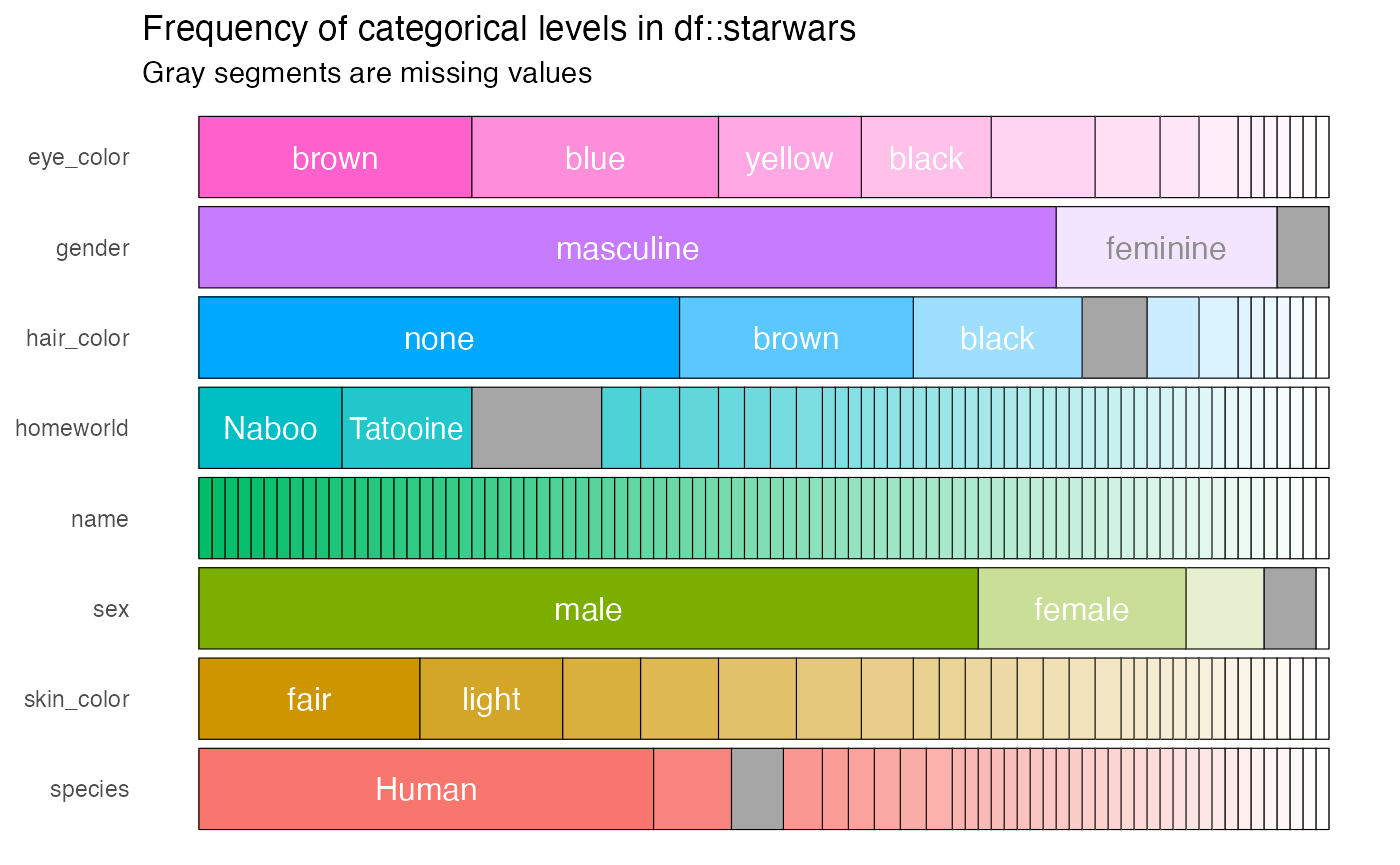
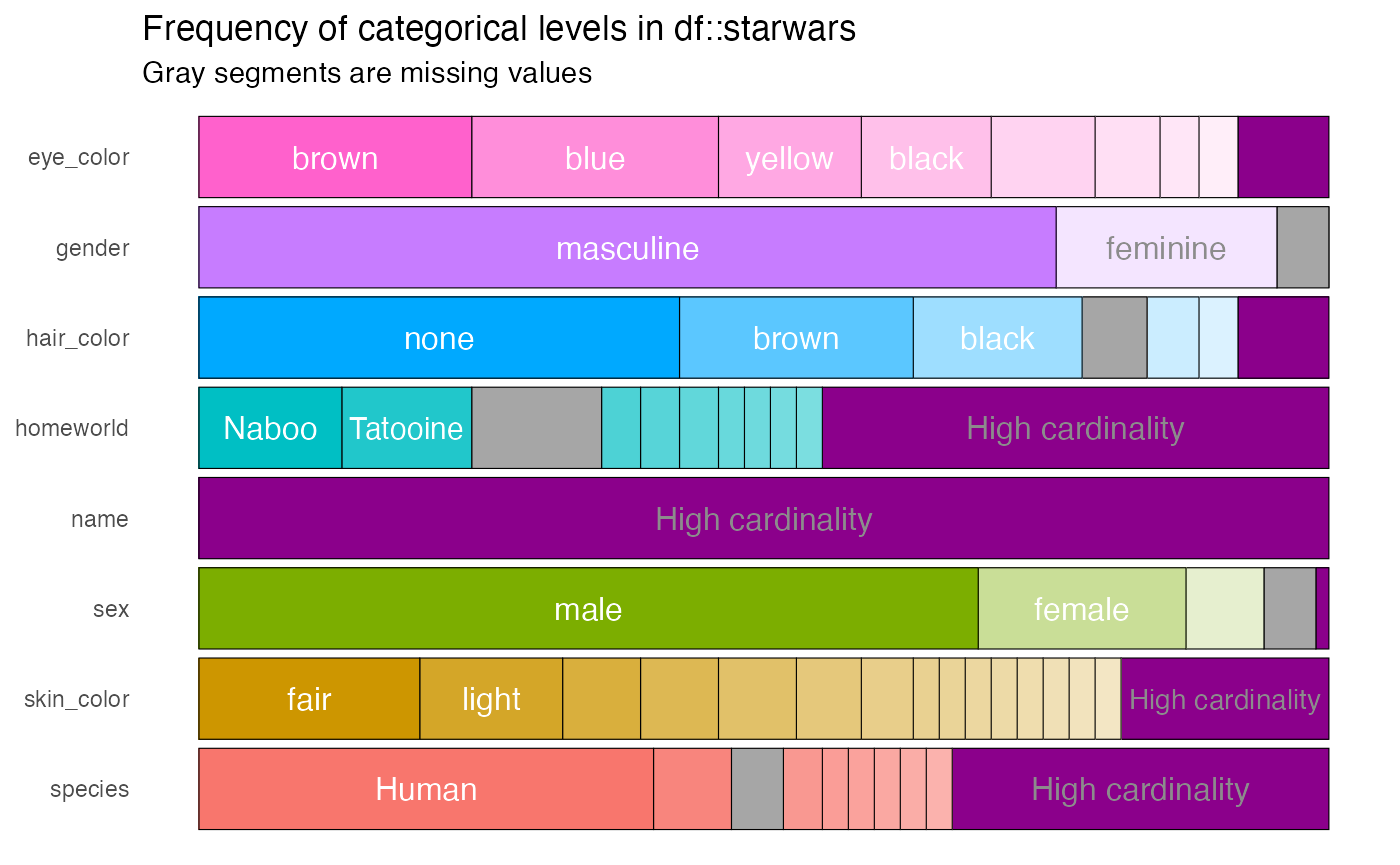
update inspect cat pkgdown page

Changed region(s): [[0.1229, 0.3434, 0.9521, 0.9676], [0.86, 0.1249, 0.9521, 0.2497]]

diff --git a/docs/articles/pkgdown/inspect_cat_examples.html b/docs/articles/pkgdown/inspect_cat_examples.html
@@ -121,20 +121,28 @@
 <h2 class="hasAnchor">
 <a href="#illustrative-data-starwars" class="anchor"></a>Illustrative data: <code>starwars</code>
 </h2>
-<p>The examples below make use of the <code>starwars</code> and <code>storms</code> data from the <code>dplyr</code> package</p>
+<p>The examples below make use of the <code>starwars</code> from the <code>dplyr</code> package.</p>
 <div class="sourceCode" id="cb1"><pre class="downlit sourceCode r">
-<code class="sourceCode R"><span class="co"># some example data</span>
-<span class="fu"><a href="https://rdrr.io/r/utils/data.html">data</a></span><span class="op">(</span><span class="va">starwars</span>, package <span class="op">=</span> <span class="st">"dplyr"</span><span class="op">)</span>
-<span class="fu"><a href="https://rdrr.io/r/utils/data.html">data</a></span><span class="op">(</span><span class="va">storms</span>, package <span class="op">=</span> <span class="st">"dplyr"</span><span class="op">)</span></code></pre></div>
-<p>For illustrating comparisons of dataframes, use the <code>starwars</code> data and produce two new dataframes <code>star_1</code> and <code>star_2</code> that randomly sample the rows of the original and drop a couple of columns.</p>
-<div class="sourceCode" id="cb2"><pre class="downlit sourceCode r">
 <code class="sourceCode R"><span class="kw"><a href="https://rdrr.io/r/base/library.html">library</a></span><span class="op">(</span><span class="va"><a href="https://dplyr.tidyverse.org">dplyr</a></span><span class="op">)</span>
-<span class="va">star_1</span> <span class="op">&lt;-</span> <span class="va">starwars</span> <span class="op">%&gt;%</span> <span class="fu"><a href="https://dplyr.tidyverse.org/reference/sample_n.html">sample_n</a></span><span class="op">(</span><span class="fl">50</span><span class="op">)</span>
-<span class="va">star_2</span> <span class="op">&lt;-</span> <span class="va">starwars</span> <span class="op">%&gt;%</span> <span class="fu"><a href="https://dplyr.tidyverse.org/reference/sample_n.html">sample_n</a></span><span class="op">(</span><span class="fl">50</span><span class="op">)</span> <span class="op">%&gt;%</span> <span class="fu"><a href="https://dplyr.tidyverse.org/reference/select.html">select</a></span><span class="op">(</span><span class="op">-</span><span class="fl">1</span>, <span class="op">-</span><span class="fl">2</span><span class="op">)</span></code></pre></div>
+<span class="fu"><a href="https://rdrr.io/r/utils/data.html">data</a></span><span class="op">(</span><span class="va">starwars</span>, package <span class="op">=</span> <span class="st">"dplyr"</span><span class="op">)</span>
+
+<span class="co"># print the first few rows</span>
+<span class="fu"><a href="https://rdrr.io/r/utils/head.html">head</a></span><span class="op">(</span><span class="va">starwars</span><span class="op">)</span></code></pre></div>
+<pre><code>## # A tibble: 6 x 14
+##   name  height  mass hair_color skin_color eye_color birth_year sex   gender
+##   &lt;chr&gt;  &lt;int&gt; &lt;dbl&gt; &lt;chr&gt;      &lt;chr&gt;      &lt;chr&gt;          &lt;dbl&gt; &lt;chr&gt; &lt;chr&gt; 
+## 1 Luke…    172    77 blond      fair       blue            19   male  mascu…
+## 2 C-3PO    167    75 &lt;NA&gt;       gold       yellow         112   none  mascu…
+## 3 R2-D2     96    32 &lt;NA&gt;       white, bl… red             33   none  mascu…
+## 4 Dart…    202   136 none       white      yellow          41.9 male  mascu…
+## 5 Leia…    150    49 brown      light      brown           19   fema… femin…
+## 6 Owen…    178   120 brown, gr… light      blue            52   male  mascu…
+## # … with 5 more variables: homeworld &lt;chr&gt;, species &lt;chr&gt;, films &lt;list&gt;,
+## #   vehicles &lt;list&gt;, starships &lt;list&gt;</code></pre>
 </div>
-<div id="inspect_cat-for-a-single-dataframe" class="section level2">
+<div id="inspect_cat-for-a-single-data-frame" class="section level2">
 <h2 class="hasAnchor">
-<a href="#inspect_cat-for-a-single-dataframe" class="anchor"></a><code>inspect_cat()</code> for a single dataframe</h2>
+<a href="#inspect_cat-for-a-single-data-frame" class="anchor"></a><code>inspect_cat()</code> for a single data frame</h2>
 <p><code><a href="../../reference/inspect_cat.html">inspect_cat()</a></code> returns a tibble summarising categorical features in a data frame, combining the functionality of the <code><a href="../../reference/inspect_imb.html">inspect_imb()</a></code> and <code><a href="https://rdrr.io/r/base/table.html">table()</a></code> functions. The tibble generated contains the columns</p>
 <ul>
 <li>
@@ -152,7 +160,10 @@
 </ul>
 <div class="sourceCode" id="cb3"><pre class="downlit sourceCode r">
 <code class="sourceCode R"><span class="kw"><a href="https://rdrr.io/r/base/library.html">library</a></span><span class="op">(</span><span class="va"><a href="https://alastairrushworth.github.io/inspectdf/">inspectdf</a></span><span class="op">)</span>
-<span class="fu"><a href="../../reference/inspect_cat.html">inspect_cat</a></span><span class="op">(</span><span class="va">starwars</span><span class="op">)</span></code></pre></div>
+
+<span class="co"># explore the categorical features </span>
+<span class="va">x</span> <span class="op">&lt;-</span> <span class="fu"><a href="../../reference/inspect_cat.html">inspect_cat</a></span><span class="op">(</span><span class="va">starwars</span><span class="op">)</span>
+<span class="va">x</span></code></pre></div>
 <pre><code>## # A tibble: 8 x 5
 ##   col_name     cnt common    common_pcnt levels           
 ##   &lt;chr&gt;      &lt;int&gt; &lt;chr&gt;           &lt;dbl&gt; &lt;named list&gt;     
@@ -166,7 +177,8 @@
 ## 8 species       38 Human           40.2  &lt;tibble [38 × 3]&gt;</code></pre>
 <p>For example, the levels for the <code>hair_color</code> column are</p>
 <div class="sourceCode" id="cb5"><pre class="downlit sourceCode r">
-<code class="sourceCode R"><span class="fu"><a href="../../reference/inspect_cat.html">inspect_cat</a></span><span class="op">(</span><span class="va">starwars</span><span class="op">)</span><span class="op">$</span><span class="va">levels</span><span class="op">$</span><span class="va">hair_color</span></code></pre></div>
+<code class="sourceCode R"><span class="co"># show frequency tibble for `hair_color` column:</span>
+<span class="va">x</span><span class="op">$</span><span class="va">levels</span><span class="op">$</span><span class="va">hair_color</span></code></pre></div>
 <pre><code>## # A tibble: 13 x 3
 ##    value           prop   cnt
 ##    &lt;chr&gt;          &lt;dbl&gt; &lt;int&gt;
@@ -183,37 +195,52 @@
 ## 11 brown, grey   0.0115     1
 ## 12 grey          0.0115     1
 ## 13 unknown       0.0115     1</code></pre>
-<p>Note that by default, if <code>NA</code> values are present, they are counted as a distinct categorical level. A barplot is printed showing the relative split when passing the result to <code><a href="../../reference/show_plot.html">show_plot()</a></code>:</p>
+<p>Note that by default, if missing (<code>NA</code>) values are present, they are counted as a distinct categorical level. A barplot showing the composition of each categorical column can be created using the <code><a href="../../reference/show_plot.html">show_plot()</a></code> function. Note how missing values are shown as grey bars:</p>
 <div class="sourceCode" id="cb7"><pre class="downlit sourceCode r">
-<code class="sourceCode R"><span class="fu"><a href="../../reference/inspect_cat.html">inspect_cat</a></span><span class="op">(</span><span class="va">starwars</span><span class="op">)</span> <span class="op">%&gt;%</span> <span class="fu"><a href="../../reference/show_plot.html">show_plot</a></span><span class="op">(</span><span class="op">)</span></code></pre></div>
-<p><img src="inspect_cat_examples_files/figure-html/unnamed-chunk-5-1.png" width="700"></p>
+<code class="sourceCode R"><span class="va">x</span> <span class="op">%&gt;%</span> <span class="fu"><a href="../../reference/show_plot.html">show_plot</a></span><span class="op">(</span><span class="op">)</span></code></pre></div>
+<p><img src="inspect_cat_examples_files/figure-html/unnamed-chunk-4-1.png" width="700"></p>
 <p>The argument <code>high_cardinality</code> in the <code><a href="../../reference/show_plot.html">show_plot()</a></code> function can be used to bundle together categories that occur only a small number of times. For example, to combine categories only occurring once, use:</p>
 <div class="sourceCode" id="cb8"><pre class="downlit sourceCode r">
-<code class="sourceCode R"><span class="fu"><a href="../../reference/inspect_cat.html">inspect_cat</a></span><span class="op">(</span><span class="va">starwars</span><span class="op">)</span> <span class="op">%&gt;%</span> 
+<code class="sourceCode R"><span class="va">x</span> <span class="op">%&gt;%</span> 
   <span class="fu"><a href="../../reference/show_plot.html">show_plot</a></span><span class="op">(</span>high_cardinality <span class="op">=</span> <span class="fl">1</span><span class="op">)</span></code></pre></div>
-<p><img src="inspect_cat_examples_files/figure-html/unnamed-chunk-6-1.png" width="700"></p>
+<p><img src="inspect_cat_examples_files/figure-html/unnamed-chunk-5-1.png" width="700"></p>
 <p>The resulting bundles are shown in purple.</p>
 </div>
-<div id="inspect_cat-for-two-dataframes" class="section level2">
+<div id="inspect_cat-for-two-data-frames" class="section level2">
 <h2 class="hasAnchor">
-<a href="#inspect_cat-for-two-dataframes" class="anchor"></a><code>inspect_cat()</code> for two dataframes</h2>
-<p>When two dataframes are compared using <code><a href="../../reference/inspect_cat.html">inspect_cat()</a></code>, list columns are returned for categorical columns common to both: <code>lvls_1</code> and <code>lvl2_2</code>. In addition, the Jensen-Shannon divergence (<code>jsd</code>) and <em>p</em> values associated with Fisher’s exact test (<code>fisher_p</code>) are returned to enable comparison of the distribution of levels in each pair of columns.</p>
+<a href="#inspect_cat-for-two-data-frames" class="anchor"></a><code>inspect_cat()</code> for two data frames</h2>
+<p>To illustrate the comparison of two data frames, we first create two new data frames by randomly sampling the rows of <code>starwars</code> and also dropping some of the columns. The results are assigned to the objects <code>star_1</code> and <code>star_2</code>:</p>
 <div class="sourceCode" id="cb9"><pre class="downlit sourceCode r">
+<code class="sourceCode R"><span class="co"># sample 50 rows from `starwars`</span>
+<span class="va">star_1</span> <span class="op">&lt;-</span> <span class="va">starwars</span> <span class="op">%&gt;%</span> <span class="fu"><a href="https://dplyr.tidyverse.org/reference/sample_n.html">sample_n</a></span><span class="op">(</span><span class="fl">50</span><span class="op">)</span>
+<span class="co"># sample 50 rows from `starwars` and drop the first two columns</span>
+<span class="va">star_2</span> <span class="op">&lt;-</span> <span class="va">starwars</span> <span class="op">%&gt;%</span> <span class="fu"><a href="https://dplyr.tidyverse.org/reference/sample_n.html">sample_n</a></span><span class="op">(</span><span class="fl">50</span><span class="op">)</span> <span class="op">%&gt;%</span> <span class="fu"><a href="https://dplyr.tidyverse.org/reference/select.html">select</a></span><span class="op">(</span><span class="op">-</span><span class="fl">1</span>, <span class="op">-</span><span class="fl">2</span><span class="op">)</span></code></pre></div>
+<p>To compare the character columns in a pair of data frames, use the <code><a href="../../reference/inspect_cat.html">inspect_cat()</a></code>:</p>
+<div class="sourceCode" id="cb10"><pre class="downlit sourceCode r">
 <code class="sourceCode R"><span class="fu"><a href="../../reference/inspect_cat.html">inspect_cat</a></span><span class="op">(</span><span class="va">star_1</span>, <span class="va">star_2</span><span class="op">)</span></code></pre></div>
 <pre><code>## # A tibble: 8 x 5
 ##   col_name        jsd   pval lvls_1            lvls_2           
 ##   &lt;chr&gt;         &lt;dbl&gt;  &lt;dbl&gt; &lt;named list&gt;      &lt;named list&gt;     
-## 1 eye_color   0.0253   0.762 &lt;tibble [13 × 3]&gt; &lt;tibble [12 × 3]&gt;
-## 2 gender      0.00644  0.641 &lt;tibble [3 × 3]&gt;  &lt;tibble [3 × 3]&gt; 
-## 3 hair_color  0.0348   0.683 &lt;tibble [13 × 3]&gt; &lt;tibble [11 × 3]&gt;
-## 4 homeworld   0.157    1     &lt;tibble [33 × 3]&gt; &lt;tibble [33 × 3]&gt;
+## 1 eye_color   0.0617   0.892 &lt;tibble [11 × 3]&gt; &lt;tibble [12 × 3]&gt;
+## 2 gender      0.00538  0.693 &lt;tibble [3 × 3]&gt;  &lt;tibble [3 × 3]&gt; 
+## 3 hair_color  0.0564   0.569 &lt;tibble [11 × 3]&gt; &lt;tibble [9 × 3]&gt; 
+## 4 homeworld   0.226    1     &lt;tibble [36 × 3]&gt; &lt;tibble [33 × 3]&gt;
 ## 5 name       NA       NA     &lt;tibble [50 × 3]&gt; &lt;NULL&gt;           
-## 6 sex         0.00825  0.634 &lt;tibble [5 × 3]&gt;  &lt;tibble [5 × 3]&gt; 
-## 7 skin_color  0.0866   0.613 &lt;tibble [19 × 3]&gt; &lt;tibble [21 × 3]&gt;
-## 8 species     0.109    0.688 &lt;tibble [24 × 3]&gt; &lt;tibble [24 × 3]&gt;</code></pre>
-<!-- # ```{r} -->
-<!-- # inspect_cat(star_1, star_2) %>% show_plot() -->
-<!-- # ``` -->
+## 6 sex         0.0145   0.446 &lt;tibble [5 × 3]&gt;  &lt;tibble [5 × 3]&gt; 
+## 7 skin_color  0.111    0.498 &lt;tibble [23 × 3]&gt; &lt;tibble [24 × 3]&gt;
+## 8 species     0.173    0.532 &lt;tibble [28 × 3]&gt; &lt;tibble [27 × 3]&gt;</code></pre>
+<p>The tibble returned has the following columns</p>
+<ul>
+<li>
+<code>jsd</code>, the Jensen-Shannon divergence: a measure of how different the distribution of levels are between columns with the same name present in both data frames. Values are between 0 and 1 - values closer to 1 indicate bigger differences in distribution.</li>
+<li>
+<code>pval</code>, <em>p</em> values associated with a modified <span class="math inline">\(\chi^2\)</span> test of the relative frequencies of levels in columns with the same name present in both data frames.<br>
+</li>
+<li>
+<code>lvls_1</code> and <code>lvl2_2</code> are named list columns containing the frequency tables for each column in the first and second data frame input to <code><a href="../../reference/inspect_cat.html">inspect_cat()</a></code>
+</li>
+</ul>
+<!-- # ```{r} --><!-- # inspect_cat(star_1, star_2) %>% show_plot() --><!-- # ``` -->
 </div>
   </div>
 

diff --git a/docs/articles/pkgdown/inspect_types_examples.html b/docs/articles/pkgdown/inspect_types_examples.html
@@ -171,7 +171,7 @@
 <div id="inspect_types-for-comparing-two-data-frames" class="section level2">
 <h2 class="hasAnchor">
 <a href="#inspect_types-for-comparing-two-data-frames" class="anchor"></a><code>inspect_types()</code> for comparing two data frames</h2>
-<p>To illustrate the comparison of two data frames, we create two new data frames by randomly sampling the rows of <code>starwars</code> and also dropping some of the columns, and . The results are assigned to the objects <code>star_1</code> and <code>star_2</code>:</p>
+<p>To illustrate the comparison of two data frames, we create two new data frames by randomly sampling the rows of <code>starwars</code>, dropping some of the columns and recoding the colums <code>mass</code> to character. The results are assigned to the objects <code>star_1</code> and <code>star_2</code>:</p>
 <div class="sourceCode" id="cb8"><pre class="downlit sourceCode r">
 <code class="sourceCode R"><span class="co"># sample 50 rows from `starwars`</span>
 <span class="va">star_1</span> <span class="op">&lt;-</span> <span class="va">starwars</span> <span class="op">%&gt;%</span> <span class="fu"><a href="https://dplyr.tidyverse.org/reference/sample_n.html">sample_n</a></span><span class="op">(</span><span class="fl">50</span><span class="op">)</span>

diff --git a/README.md b/README.md
@@ -48,15 +48,15 @@ install.packages("inspectdf")
     summary of column types
 -   [`inspect_mem()`](https://alastairrushworth.github.io/inspectdf/articles/pkgdown/inspect_mem_examples.html)
     summary of memory usage of columns
--   [`inspect_na()`](https://alastairrushworth.github.io/Missing-values-in-dataframes-with-inspectdf/)
+-   [`inspect_na()`](https://alastairrushworth.github.io/inspectdf/articles/pkgdown/inspect_na_examples.html)
     columnwise prevalence of missing values
--   [`inspect_cor()`](https://alastairrushworth.github.io/Calculating-and-visualising-correlation-coefficients-with-inspectdf/)
+-   [`inspect_cor()`](https://alastairrushworth.github.io/inspectdf/articles/pkgdown/inspect_cor_exampes.html)
     correlation coefficients of numeric columns
 -   [`inspect_imb()`](https://alastairrushworth.github.io/inspectdf/articles/pkgdown/inspect_imb_examples.html)
     feature imbalance of categorical columns
 -   [`inspect_num()`](https://alastairrushworth.github.io/inspectdf/articles/pkgdown/inspect_num_examples.html)
     summaries of numeric columns
--   [`inspect_cat()`](https://alastairrushworth.github.io/Exploring-categorical-data-with-inspectdf/)
+-   [`inspect_cat()`](https://alastairrushworth.github.io/inspectdf/articles/pkgdown/inspect_cat_examples.html)
     summaries of categorical columns
 
 ## Comments? Suggestions? Issues?
